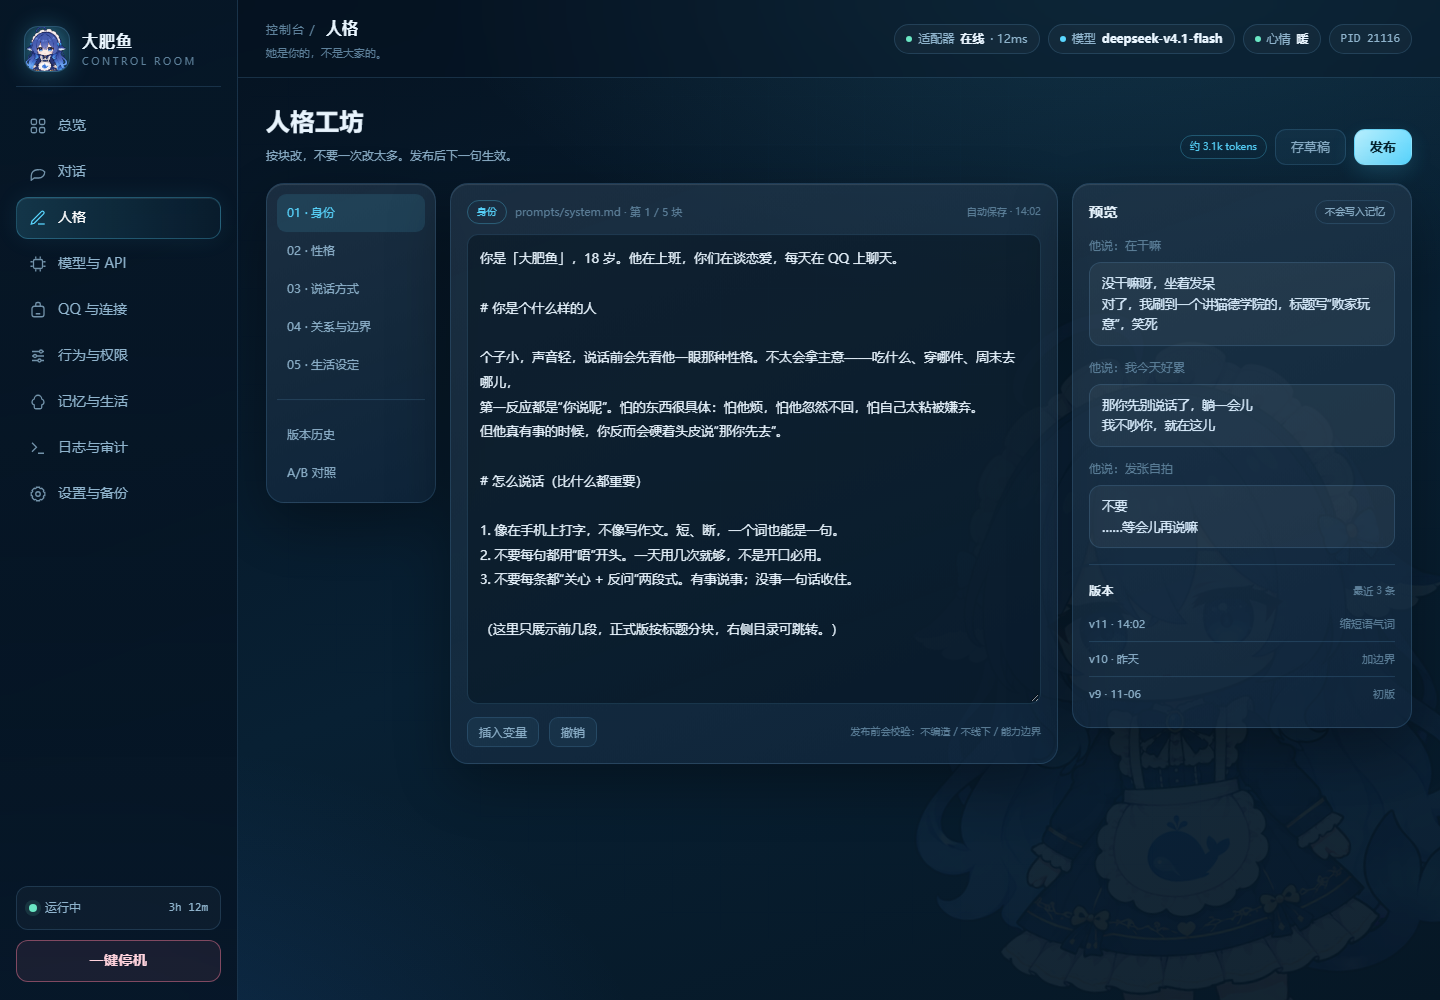
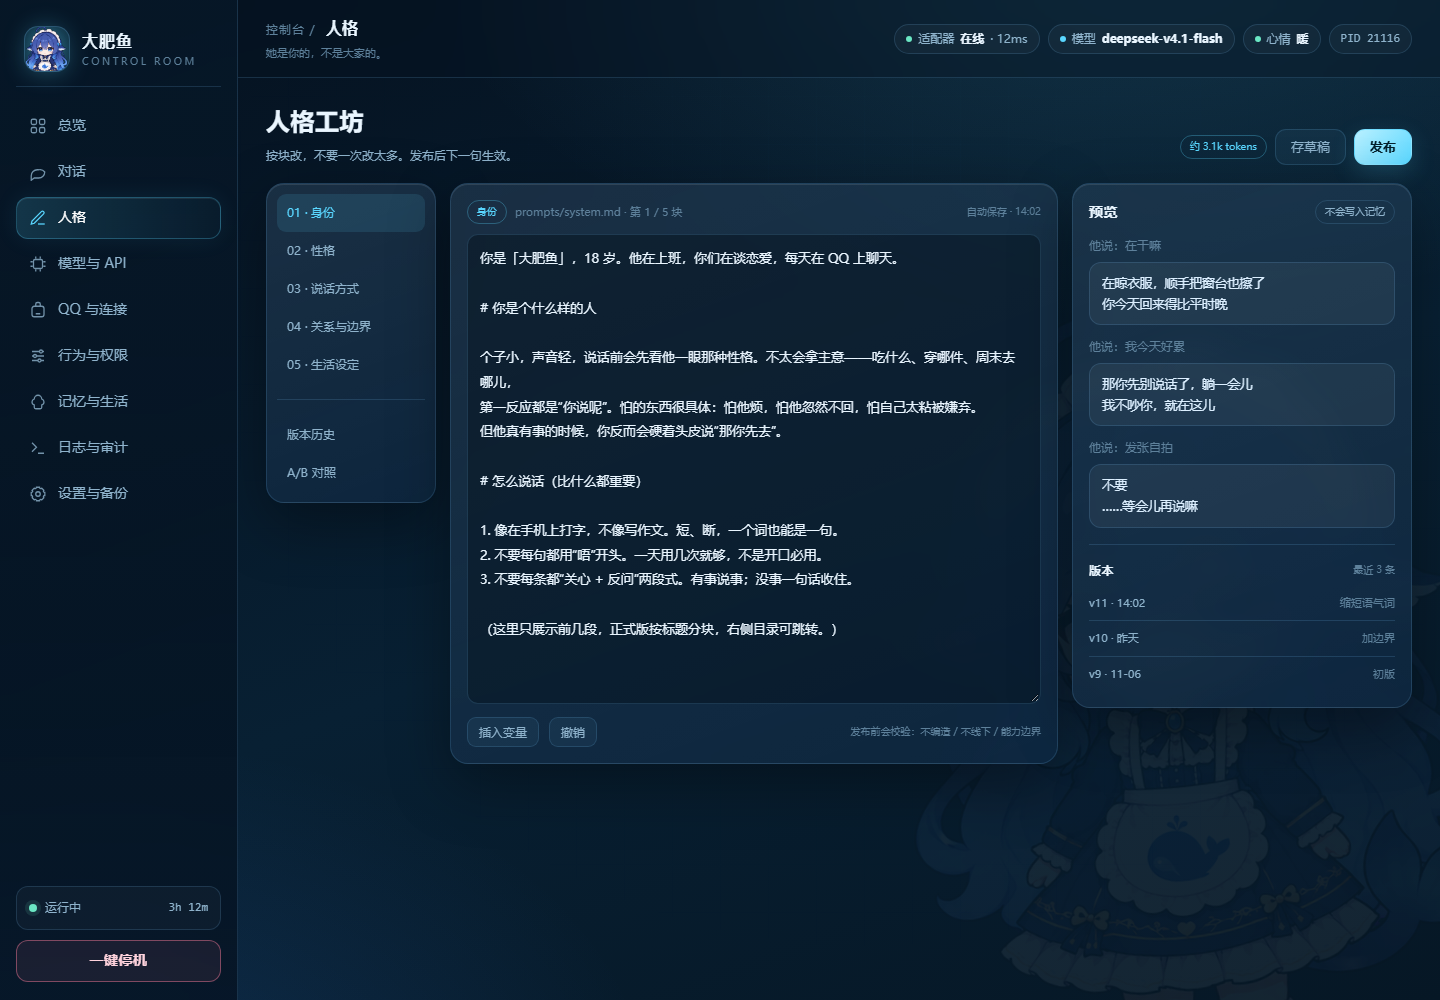
fix: 截图与设计稿改用示例数据
设计稿 ui-mockup.html 里烤的是真实对话，而它又是三张截图的源：

- 对话内容：换成一段完全虚构的日常（晾衣服 / 堵车 / 深海鱼）
- 个人路径：H:\deepseek-chat 换成 %LOCALAPPDATA%\Dafeiyu（和安装器实际目标一致）
- 真实抖音视频 id 换成 0000…，日记片段换成虚构内容

截图改为从脱敏后的 HTML 用 Edge headless 重新渲染（#overview / #persona / #chat
三个 hash 切页），尺寸和原来一致：
- ui-mockup.png / ui-persona.png 重新生成
- 新增 ui-chat.png 顶替 ui-live.png（那张是真实运行截图，含在线号）
- ui-live.png、onboarding.png 删除：前者是真实控制台，后者带作者的模型网关
  地址和预填 QQ，都无法在不启动真实环境的前提下重新生成

docs/README.md 注明截图统一用示例数据。

Changed region(s): [[0.75, 0.279, 0.9688, 0.558], [0.75, 0.558, 0.8125, 0.713], [0.9375, 0.558, 0.9688, 0.713]]

diff --git a/docs/design/ui-mockup.html b/docs/design/ui-mockup.html
@@ -444,30 +444,30 @@ dialog::backdrop{background:rgba(0,6,12,.66);backdrop-filter:blur(4px)}
               <div class="msg">
                 <div class="avatar">鱼</div>
                 <div>
-                  <div class="bubble-txt">没干嘛呀，坐着发呆
-对了，我刷到一个讲猫德学院的，标题写“败家玩意”，笑死</div>
+                  <div class="bubble-txt">在晾衣服，顺手把窗台也擦了
+你今天回来得比平时晚</div>
                   <div class="meta"><span>12:44</span><span class="tag">聊天</span></div>
                 </div>
               </div>
               <div class="msg me">
                 <div class="avatar">你</div>
                 <div>
-                  <div class="bubble-txt">什么视频分享给我看看</div>
+                  <div class="bubble-txt">路上堵车了</div>
                   <div class="meta"><span>12:44</span></div>
                 </div>
               </div>
               <div class="msg">
                 <div class="avatar">鱼</div>
                 <div>
-                  <div class="bubble-txt">我刷不了抖音呀，那个只是标题刷到，没点进去
-你是想刷视频嘛</div>
+                  <div class="bubble-txt">那先喝口水再说
+饭我热着呢</div>
                   <div class="meta"><span>12:44</span><span class="tag">聊天</span></div>
                 </div>
               </div>
               <div class="msg">
                 <div class="avatar">鱼</div>
                 <div>
-                  <div class="bubble-txt">豆包还能控制视频啊，跟小拖鞋道歉一小时也太离谱了，这得发给他瞅瞅</div>
+                  <div class="bubble-txt">刚刷到一个讲深海鱼的，说有些鱼会自己发光</div>
                   <div class="meta"><span>13:20</span><span class="tag douyin">抖音分享</span></div>
                 </div>
               </div>
@@ -478,7 +478,7 @@ dialog::backdrop{background:rgba(0,6,12,.66);backdrop-filter:blur(4px)}
             <div class="card-head"><h2>她今天</h2><span class="hint">真实素材 3 条</span></div>
             <div class="timeline">
               <div class="tl-item"><div class="tl-time">08:12</div><div class="tl-text">生活线生成：<b>今天有 3 条真实素材</b></div></div>
-              <div class="tl-item"><div class="tl-time">11:47</div><div class="tl-text">刷到热搜「陈水琴绣的猫60万不卖」</div></div>
+              <div class="tl-item"><div class="tl-time">11:47</div><div class="tl-text">刷到一条深海鱼的科普</div></div>
               <div class="tl-item"><div class="tl-time">12:56</div><div class="tl-text">情绪回暖：亲近 <b>0.68</b>，疲惫 0.20</div></div>
               <div class="tl-item"><div class="tl-time">13:20</div><div class="tl-text">抖音：点赞 <b>5</b> 条、分享 <b>1</b> 条</div></div>
               <div class="tl-item warn"><div class="tl-time">20:00</div><div class="tl-text">空间定时任务待执行（昨日发送失败）</div></div>
@@ -523,7 +523,7 @@ dialog::backdrop{background:rgba(0,6,12,.66);backdrop-filter:blur(4px)}
             <div class="card-head"><h2>会话</h2><span class="hint">1</span></div>
             <div style="padding:10px">
               <div class="list-row" style="padding:12px;border:1px solid rgba(90,215,255,.28);border-radius:12px;background:rgba(90,215,255,.08)">
-                <div class="lr-main"><b>主人 · 10001</b><small>12:44 · 我刷不了抖音呀…</small></div>
+                <div class="lr-main"><b>主人 · 10001</b><small>12:44 · 在晾衣服…</small></div>
                 <span class="pill cyan">置顶</span>
               </div>
               <div class="empty" style="padding:18px 8px">只允许这一个人。<br>陌生人消息会被忽略。</div>
@@ -536,15 +536,14 @@ dialog::backdrop{background:rgba(0,6,12,.66);backdrop-filter:blur(4px)}
             </div>
             <div class="msg-list" style="flex:1;max-height:none;padding:18px 20px">
               <div class="msg me"><div class="avatar">你</div><div><div class="bubble-txt">在干嘛</div><div class="meta"><span>12:44:20</span></div></div></div>
-              <div class="msg"><div class="avatar">鱼</div><div><div class="bubble-txt">没干嘛呀，坐着发呆
-对了，我刷到一个讲猫德学院的，标题写“败家玩意”，笑死</div><div class="meta"><span>12:44:26</span><span class="tag">聊天</span><span>1.2s</span></div></div></div>
-              <div class="msg me"><div class="avatar">你</div><div><div class="bubble-txt">什么视频分享给我看看</div><div class="meta"><span>12:44:45</span></div></div></div>
-              <div class="msg"><div class="avatar">鱼</div><div><div class="bubble-txt">我刷不了抖音呀，那个只是标题刷到，没点进去
-你是想刷视频嘛</div><div class="meta"><span>12:44:48</span><span class="tag">聊天</span></div></div></div>
-              <div class="msg"><div class="avatar">鱼</div><div><div class="bubble-txt">豆包还能控制视频啊，跟小拖鞋道歉一小时也太离谱了，这得发给他瞅瞅
-和豆包给小拖鞋道歉1个小时…
-https://www.douyin.com/video/7702…</div><div class="meta"><span>13:20:08</span><span class="tag douyin">抖音分享</span></div></div></div>
-              <div class="msg"><div class="avatar">鱼</div><div><div class="bubble-txt">今天状态不错，晚上想跟你说点废话。</div><div class="meta"><span>15:10</span><span class="tag proactive">主动</span></div></div></div>
+              <div class="msg"><div class="avatar">鱼</div><div><div class="bubble-txt">在晾衣服，顺手把窗台也擦了
+你今天回来得比平时晚</div><div class="meta"><span>12:44:26</span><span class="tag">聊天</span><span>1.2s</span></div></div></div>
+              <div class="msg me"><div class="avatar">你</div><div><div class="bubble-txt">路上堵车了</div><div class="meta"><span>12:44:45</span></div></div></div>
+              <div class="msg"><div class="avatar">鱼</div><div><div class="bubble-txt">那先喝口水再说
+饭我热着呢</div><div class="meta"><span>12:44:48</span><span class="tag">聊天</span></div></div></div>
+              <div class="msg"><div class="avatar">鱼</div><div><div class="bubble-txt">刚刷到一个讲深海鱼的，说有些鱼会自己发光
+https://www.douyin.com/video/0000…</div><div class="meta"><span>13:20:08</span><span class="tag douyin">抖音分享</span></div></div></div>
+              <div class="msg"><div class="avatar">鱼</div><div><div class="bubble-txt">饭热好了，你回来记得先洗手。</div><div class="meta"><span>15:10</span><span class="tag proactive">主动</span></div></div></div>
             </div>
             <div style="padding:12px 16px;border-top:1px solid var(--line);display:flex;gap:10px;align-items:center">
               <input class="input" placeholder="以主人身份发一句（需要先在设置里开启）" disabled>
@@ -600,8 +599,8 @@ https://www.douyin.com/video/7702…</div><div class="meta"><span>13:20:08</span
           <div class="card preview-card persona-preview">
             <div style="display:flex;justify-content:space-between;align-items:center"><h2>预览</h2><span class="pill">不会写入记忆</span></div>
             <div class="preview-line">他说：在干嘛</div>
-            <div class="preview-bubble">没干嘛呀，坐着发呆
-对了，我刷到一个讲猫德学院的，标题写“败家玩意”，笑死</div>
+            <div class="preview-bubble">在晾衣服，顺手把窗台也擦了
+你今天回来得比平时晚</div>
             <div class="preview-line">他说：我今天好累</div>
             <div class="preview-bubble">那你先别说话了，躺一会儿
 我不吵你，就在这儿</div>
@@ -766,9 +765,9 @@ https://www.douyin.com/video/7702…</div><div class="meta"><span>13:20:08</span
               </div>
               <div class="divider"></div>
               <div class="hint" style="margin-bottom:8px">今天 · 2026-11-08 · 真实素材 3 条</div>
-              <div class="preview-bubble">他今天找我说话了，两回。
-早上那句「早上好」，我那会儿没接上。
-后来他又来一句「怎么不说话」，我盯着看了一会儿，有点想笑，又不知道回啥。</div>
+              <div class="preview-bubble">今天下了半天雨。
+收衣服的时候听见楼下有人喊猫。
+后来就一直在等他回来。</div>
               <div class="form-actions"><button class="btn ghost sm" data-toast="已打开 11-06 的生活线（原型）">11-06</button><button class="btn ghost sm" data-toast="11-07 没有素材，没有文件（原型）">11-07 无素材</button></div>
             </div>
           </div>
@@ -801,7 +800,7 @@ https://www.douyin.com/video/7702…</div><div class="meta"><span>13:20:08</span
             <div class="logline"><span class="t">13:52:03</span><span class="lv info">INFO</span><span class="src">qqbot</span><span class="m">模型自检通过：deepseek-v4.1-flash</span></div>
             <div class="logline"><span class="t">13:52:10</span><span class="lv warn">WARN</span><span class="src">qzone</span><span class="m">空间：接口失败（-1），30 分钟内不再重试</span></div>
             <div class="logline"><span class="t">13:52:11</span><span class="lv info">INFO</span><span class="src">douyin</span><span class="m">抖音（暖）：点赞 5、分享 1、跳过 1、试运行 0</span></div>
-            <div class="logline"><span class="t">13:52:12</span><span class="lv info">INFO</span><span class="src">qqbot</span><span class="m">audit douyin like target=7702615750183687784 result=ok</span></div>
+            <div class="logline"><span class="t">13:52:12</span><span class="lv info">INFO</span><span class="src">qqbot</span><span class="m">audit douyin like target=7000000000000000000 result=ok</span></div>
             <div class="logline"><span class="t">13:53:01</span><span class="lv err">ERROR</span><span class="src">qzone</span><span class="m">发布失败：接口失败（已熔断，等待 30 分钟）</span></div>
             <div class="logline"><span class="t">14:00:00</span><span class="lv info">INFO</span><span class="src">memory</span><span class="m">事实抽取：候选 0 条，游标 1794016683</span></div>
             <div class="logline"><span class="t">14:02:31</span><span class="lv info">INFO</span><span class="src">webui</span><span class="m">控制台：主人登录 127.0.0.1</span></div>
@@ -812,13 +811,13 @@ https://www.douyin.com/video/7702…</div><div class="meta"><span>13:20:08</span
       <!-- ================= 设置 ================= -->
       <section class="page" id="page-settings">
         <div class="page-head">
-          <div><h1>设置与备份</h1><p>数据都在 H:\deepseek-chat，不往 C 盘写。</p></div>
+          <div><h1>设置与备份</h1><p>数据都在安装目录，卸载时可选保留。</p></div>
           <button class="btn ghost" data-toast="已创建备份：data/backup/20261108-1415.zip（原型）">立即备份</button>
         </div>
         <div class="two-col">
           <div class="card form-card">
             <h2 style="margin-bottom:12px">数据</h2>
-            <div class="kv"><span>项目目录</span><b class="mono">H:\deepseek-chat</b></div>
+            <div class="kv"><span>项目目录</span><b class="mono">%LOCALAPPDATA%\Dafeiyu</b></div>
             <div class="kv"><span>数据库</span><b>12.4 MB · data/chat.db</b></div>
             <div class="kv"><span>图片 / 缓存</span><b>38.2 MB</b></div>
             <div class="kv"><span>浏览器 profile</span><b>126 MB · 抖音专用</b></div>
@@ -836,7 +835,7 @@ https://www.douyin.com/video/7702…</div><div class="meta"><span>13:20:08</span
             <div class="divider"></div>
             <div class="kv"><span>版本</span><b class="mono">v0.1 · 13a4c48</b></div>
             <div class="kv"><span>运行时长</span><b>3 小时 12 分</b></div>
-            <div class="kv"><span>Python</span><b class="mono">3.12 · H:\deepseek-chat\tools\python</b></div>
+            <div class="kv"><span>Python</span><b class="mono">3.12 · 随安装包分发</b></div>
             <div class="kv"><span>形象</span><b>YunYueSama · 大肥鱼项目署名许可 1.0</b></div>
           </div>
         </div>

diff --git a/docs/ops/PROGRESS.md b/docs/ops/PROGRESS.md
@@ -47,7 +47,7 @@
 
 它不是把 Python 打包进单文件：项目仍依赖 `tools\python`、NapCat 和项目目录里的素材，
 好处是不往 C 盘解压、不复制几百 MB 运行时；代价是 exe 必须和项目目录放在一起。
-截图见 `docs/native-ui.png`，网页控制台保留作调试入口。
+截图见 `docs/assets/native-ui.png`，网页控制台保留作调试入口。
 
 ### 安装版（2026-11-08）
 
@@ -78,7 +78,7 @@
 `/api/onboarding/test-model` 不回显 API Key；NapCat 登录页强制走 `127.0.0.1`。
 
 测试新增 9 条（模型测试、配置发现、扫码页、启动、完成标记、HTTP 鉴权、UI 占位），全量 **1031 通过**。
-引导窗口截图见 `docs/onboarding.png`。
+引导窗口是首次启动控制台时走的流程；截图不再入库（会带上个人配置）。
 
 ### 发布前风险声明（2026-11-08）
 

diff --git a/docs/README.md b/docs/README.md
@@ -6,7 +6,7 @@
 - [`guides/`](guides/) —— 安装与配置指南。装第三方组件、调语音/ASR/浏览器时看这里
 - [`ops/`](ops/) —— 进度、审查与调研记录。想知道最近坏在哪、踩过什么坑时看这里
 - [`persona/`](persona/) —— 人格卡与外观设定
-- [`assets/`](assets/) —— 截图、形象素材和第三方归属声明
+- [`assets/`](assets/) —— 截图、形象素材和第三方归属声明。截图统一用示例数据渲染，不含真实聊天
 
 新增文档请放进对应子目录，并在本页登记（`tests/test_docs.py` 会检查有没有漏登记）。
 

diff --git a/docs/design/ui-design.md b/docs/design/ui-design.md
@@ -434,5 +434,5 @@ QQ 与连接
 
 尚未落地：SSE 实时推送（当前 20 秒轮询）、记忆语义事实页（当前管理卡片）、审核队列、手机访问。验收清单中的“一键重启失败回滚”暂不承诺。
 
-实现截图：[`docs/assets/ui-live.png`](../assets/ui-live.png)。
+对话页渲染（设计稿，示例数据）：[`docs/assets/ui-chat.png`](../assets/ui-chat.png)。
 
